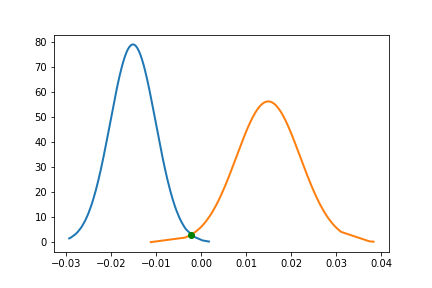
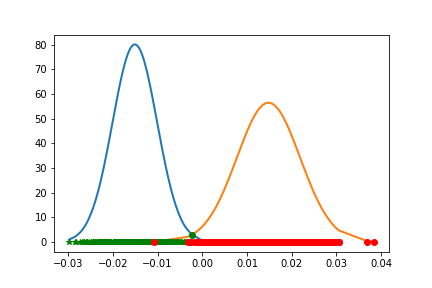
Add calculation for f-score
Calculation of precision, recall and f-score has been added to
the calc_accuracy function, and graphs has been updated as well.
To graphs, all points transformed to 1-D space has been added.

diff --git a/src/fishers_discr.py b/src/fishers_discr.py
@@ -126,6 +126,16 @@ def find_gauss_inter(m1,m2,std1,std2):
     # Calculate root of quadratic equation with coeff a, b, c
     return np.roots([a,b,c])
 
+def plot_pnts_linear(class0_transformed, class1_transformed):
+    """
+    Plot the transformed points on a line.
+    """
+    plt.plot(class0_transformed, 
+             [0 for pnt in range(len(class0_transformed))], 'g*')
+    
+    plt.plot(class1_transformed, 
+             [0 for pnt in range(len(class0_transformed))], 'ro')
+
 def plot_intersection(m1, std1, m2, std2):
     """
     Plot the points obtained by the intersection of two 
@@ -151,19 +161,44 @@ def calc_accuracy(data, wts, split_pnt):
     """
     Given a dataset and weights, transforms the points to
     1 dimensional space, and based on intersection point,
-    returns the accuracy of given weights and split_pnt.
+    returns the accuracy, precision, recall and f-score
+    of given weights and split_pnt.
     """
     correct_predictions = 0
+    pos_examples = 0
+    pos_predictions = 0
+    true_pos = 0
+    
     for index, point in data.iterrows():
+        # Calculate number of positive examples in the dataset.
+        if int(point['label']) == 0:
+            pos_examples += 1
+            
         Xn = pd.DataFrame({0: point[['x', 'y']]})
         # Transform points to 1-D space.
         transformed = wts.transpose().dot(Xn)[0][0]
+        
+        prediction = predict(split_pnt, transformed)
+        
         # If predicted output is same as actual output
         # then increase correct predictions.
-        if predict(split_pnt, transformed) == int(point['label']):
+        if prediction == int(point['label']):
             correct_predictions += 1
             
-    return correct_predictions / len(data)
+        # Calculate number of positive predictions.
+        if prediction == 0:
+            pos_predictions += 1
+        
+        # Calculate True positives.
+        if prediction == 0 and int(point['label']) == 0:
+            true_pos += 1    
+            
+    accuracy = correct_predictions / len(data)
+    precision = true_pos / pos_predictions
+    recall = true_pos / pos_examples
+    f_score = (2 * precision * recall) / (precision + recall)
+    
+    return accuracy, precision, recall, f_score
 
 def main():
     #calculations for data set 1
@@ -175,12 +210,13 @@ def main():
     (mean2, std2) = plot_norm_dist(c2_pnts)
     
     plot_intersection(mean1, std1, mean2, std2)
+    plot_pnts_linear(c1_pnts, c2_pnts)
     plt.savefig("./../graphs/fischers_discr_data_1.png")
     plt.show()
     
     intersection = find_gauss_inter(mean1, mean2, std1, std2)
     acc = calc_accuracy(data_1_test, wts, intersection[1])
-    print("Accuracy Data 1: ", acc)
+    print("Data 1 - Accuracy, precision, recall, f-score : ", acc)
     
     #calculations for data set 2
     wts = calc_wts(data_2_train)
@@ -191,12 +227,13 @@ def main():
     (mean2, std2) = plot_norm_dist(c2_pnts)
     
     plot_intersection(mean1, std1, mean2, std2)
+    plot_pnts_linear(c1_pnts, c2_pnts)
     plt.savefig("./../graphs/fischers_discr_data_2.png")
     plt.show()
     
     intersection = find_gauss_inter(mean1, mean2, std1, std2)
     acc = calc_accuracy(data_2_test, wts, intersection[1])
-    print("Accuracy Data 2: ", acc)
+    print("Data 2 - Accuracy, precision, recall, f-score  ", acc)
     return 0
     
 if __name__ == "__main__":
